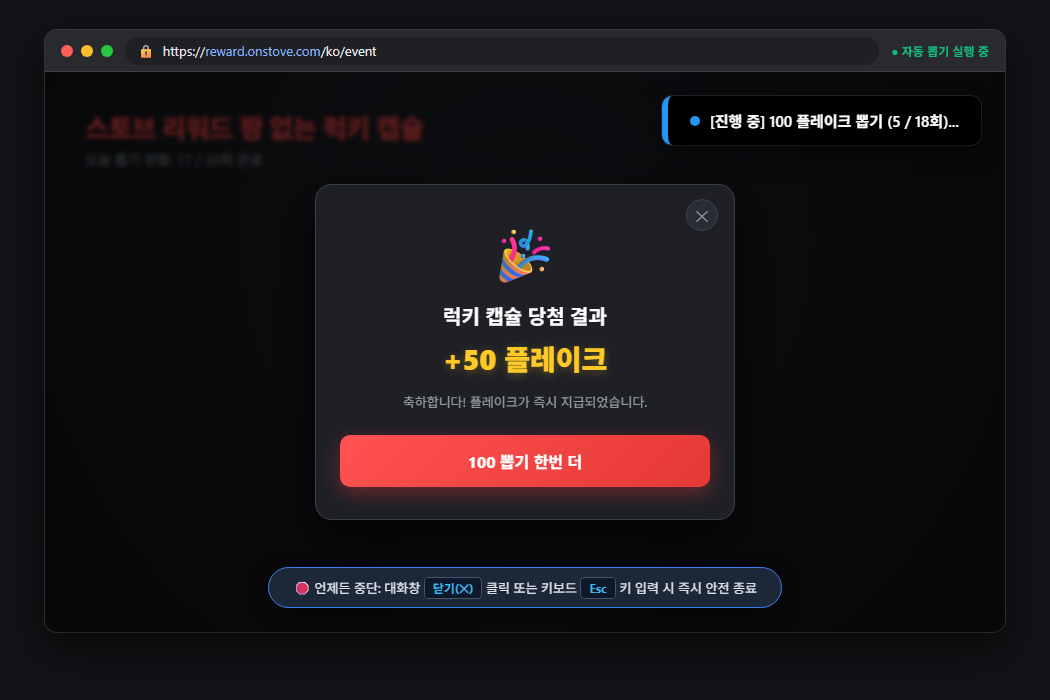
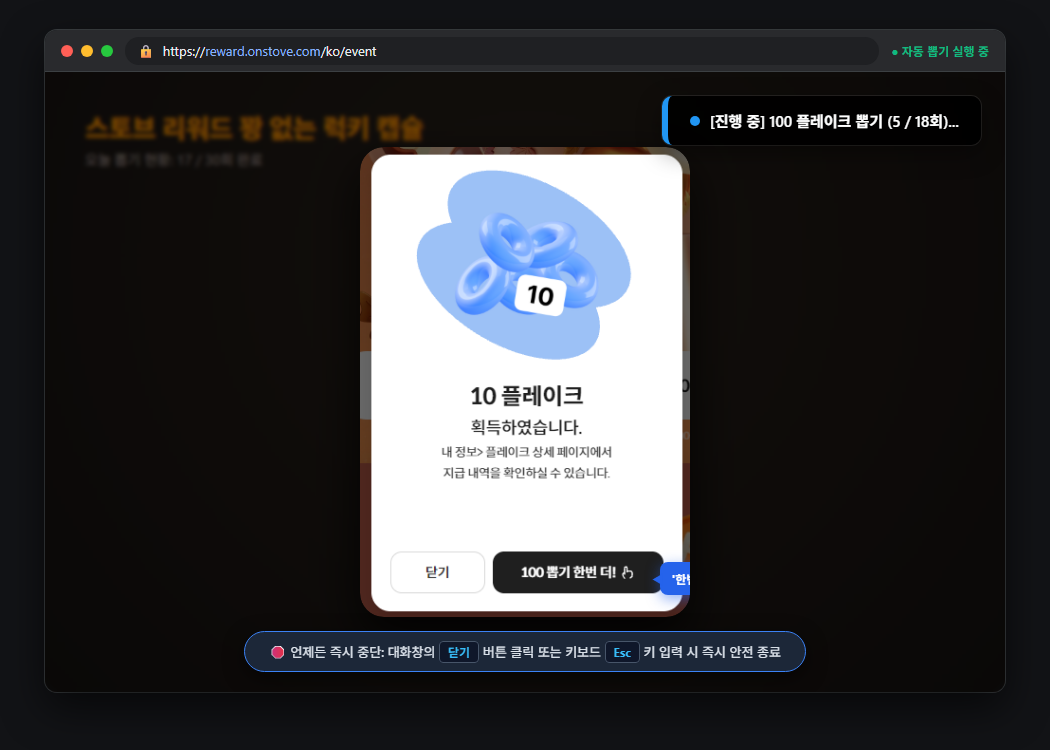
docs: 실제 스토브 플레이크 당첨 모달 캡처 이미지로 교체 및 README.md 반영

Changed region(s): [[0.061, 0.15, 0.9143, 0.9], [0.0305, 0.06, 0.9448, 0.15]]

diff --git a/README.md b/README.md
@@ -38,14 +38,14 @@
 ![확장 프로그램 팝업 UI 및 뽑기 설정 화면](docs/images/02_popup_settings.png)
 
 ### 3단계: 자동 진행 및 안전 중단
-1. 자동 뽑기가 시작되면 웹페이지 우측 상단에 실시간 진행 뱃지(`[진행 중] 100 플레이크 뽑기 (N / M회)...`)가 표시되며 이벤트 기반으로 안전하게 '한번 더' 클릭이 반복됩니다.
+1. 자동 뽑기가 시작되면 웹페이지 우측 상단에 실시간 진행 뱃지(`[진행 중] 100 플레이크 뽑기 (N / M회)...`)가 표시되며, 실제 결과 모달 대화창이 뜰 때마다 **`[100 뽑기 한번 더! 👆]`** (또는 `1,000 뽑기 한번 더!`) 버튼을 이벤트 기반으로 안전하게 자동 클릭합니다.
 2. **진행 중 즉시 중단 방법**:
-   - 웹페이지 결과 대화창의 **[닫기(✕)]** 버튼 클릭
+   - 웹페이지 당첨 대화창 하단의 **[닫기]** 버튼 클릭
    - 키보드의 **`Esc`** 키 입력
    - 확장 프로그램 팝업의 **[중단 (Esc)]** 버튼 클릭
-   - 위 3가지 중 어느 하나라도 수행하면 진행 중인 뽑기 루프가 즉시 안전하게 멈춥니다.
+   - 위 3가지 중 어느 하나라도 수행하면 진행 중인 뽑기 루프 및 감시자가 즉시 안전하게 멈춥니다.
 
-![자동 뽑기 실행 중 상태 뱃지 및 안전 중단 안내 화면](docs/images/03_running_badge.png)
+![자동 뽑기 실행 중 상태 뱃지 및 실제 모달 감지 화면](docs/images/03_running_badge.png)
 
 ---
 
